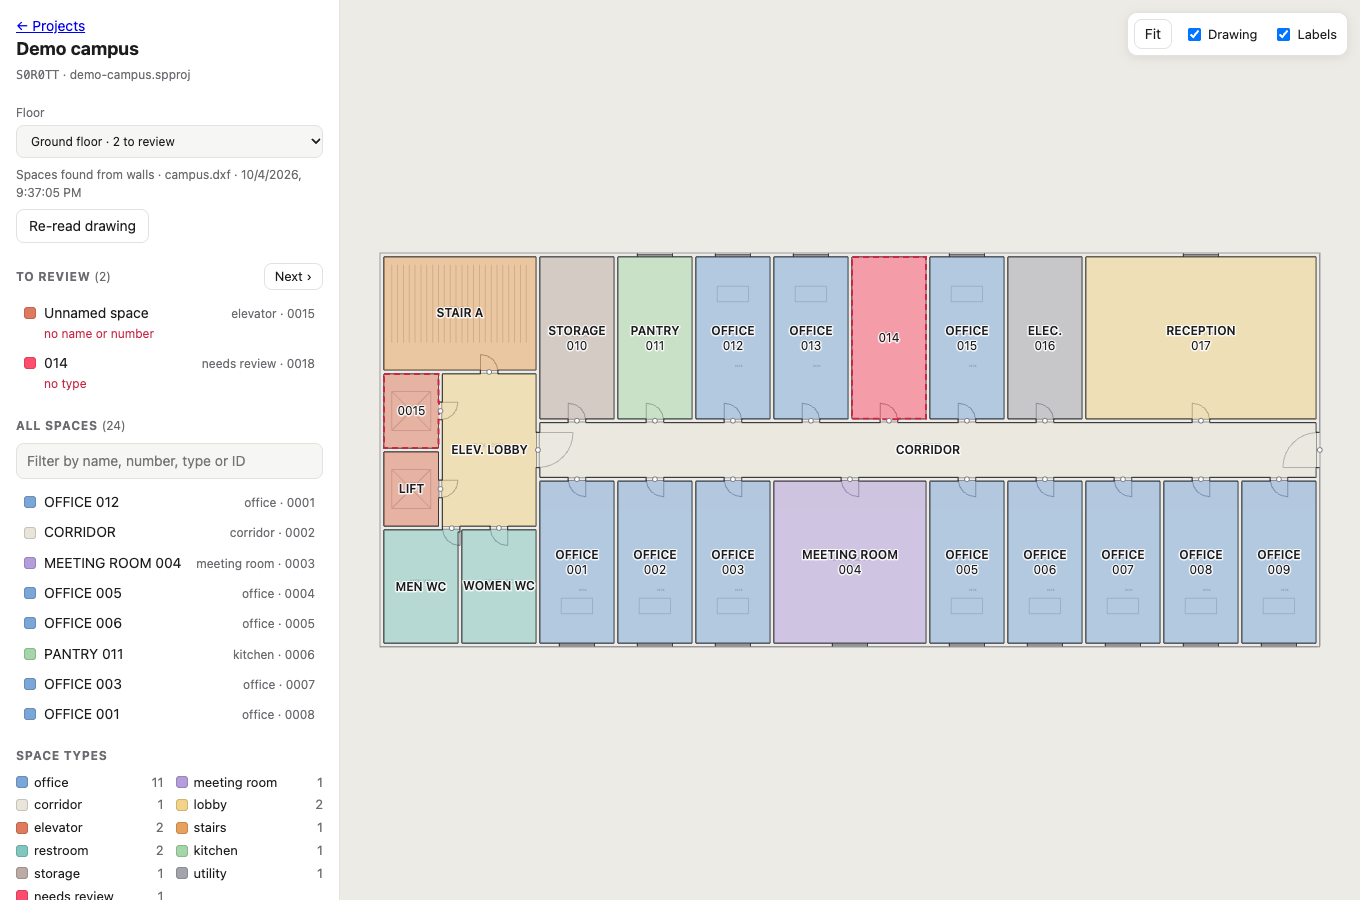
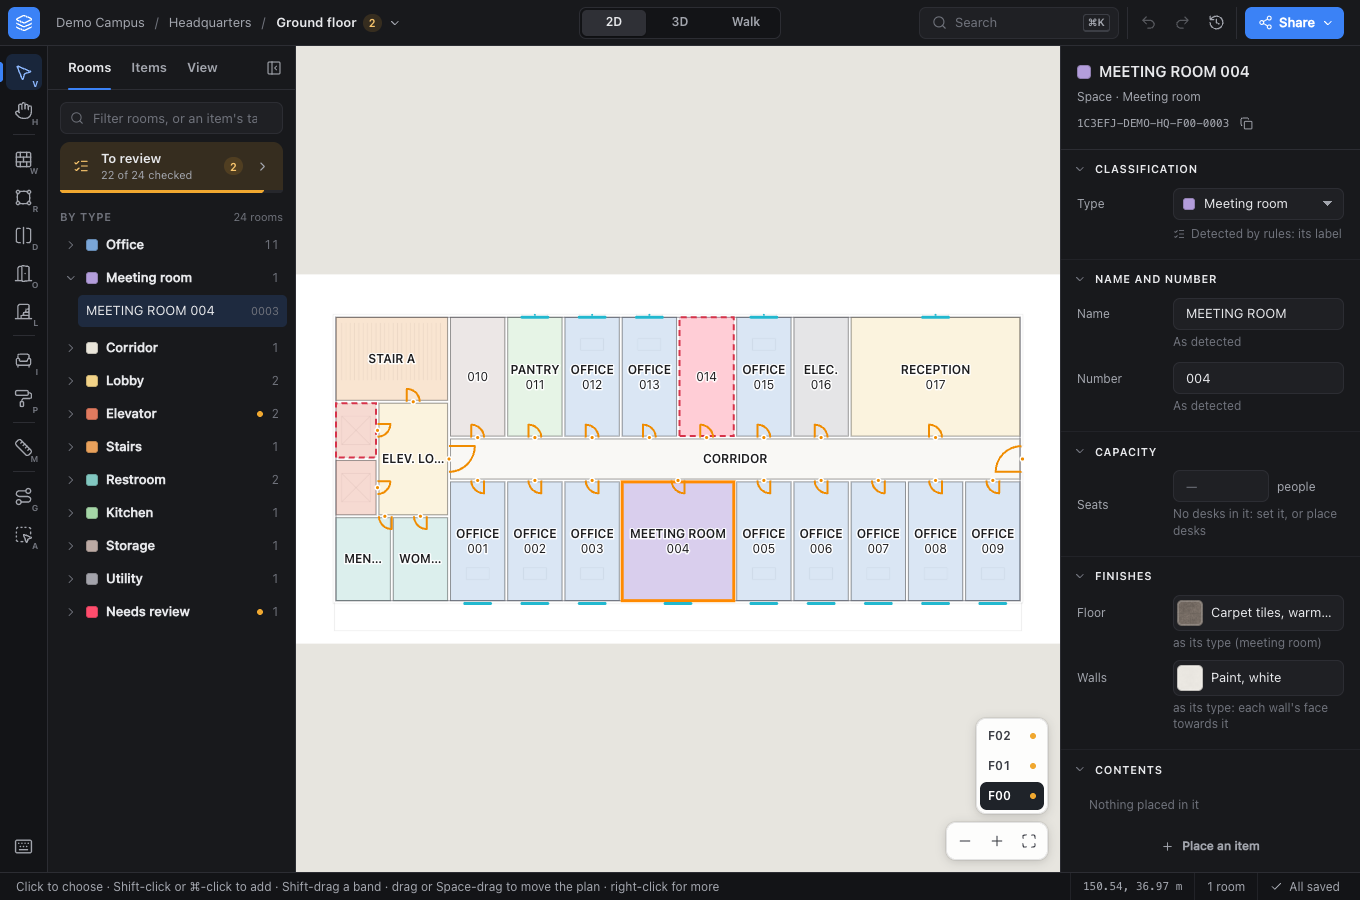
Studio's pages: number fields like the others, a plan's fields in even columns; the README's pictures as Studio is now
studio.css's own number field, link colour and helpers already in style.css and
ui.css went; a plan found on a drawing shows Floor and Floor name, Height and
Parapet side by side, evenly (Floor name was cut to a few letters). The README's
pictures of Review, a project and the plans on a drawing retaken on the demo project.

diff --git a/studio/src/storeypath/review_app/studio.css b/studio/src/storeypath/review_app/studio.css
@@ -21,20 +21,9 @@ body.studio .topbar {
 .page h1 { font-size: 24px; margin: 0; letter-spacing: -.01em; }
 .page h2 { margin: 0 0 12px; }
 .lead { color: var(--muted); margin: 4px 0 0; max-width: 70ch; }
-.back { color: var(--muted); text-decoration: none; font-size: 13px; }
-.back:hover { color: var(--text); }
-a { color: var(--accent); }
 
 .card { background: var(--surface-1); border: 1px solid var(--border); border-radius: var(--r-xl); padding: 18px; }
-.row { display: flex; gap: 10px; align-items: center; flex-wrap: wrap; }
-.grow { flex: 1; }
-.muted { color: var(--muted); }
-.small { font-size: 12px; }
-.unsure { color: var(--danger); font-weight: 600; }
-input[type="number"] {
-  font: inherit; color: var(--text); background: var(--bg);
-  border: 1px solid var(--line); border-radius: 8px; padding: 7px 10px; width: 100%;
-}
+.unsure { color: var(--danger-text); font-weight: 600; }
 
 .projects { display: grid; grid-template-columns: repeat(auto-fill, minmax(260px, 1fr)); gap: 14px; }
 .project-card { display: flex; flex-direction: column; gap: 6px; text-decoration: none; color: inherit; transition: border-color .15s; }
@@ -68,9 +57,9 @@ input[type="number"] {
 .plan .title { font-weight: 600; font-size: 13px; overflow-wrap: anywhere; }
 .badge { display: inline-block; font-size: 11px; padding: 1px 8px; border-radius: 999px; background: var(--hover); color: var(--muted); }
 .badge.plan-kind { background: color-mix(in srgb, var(--accent) 14%, transparent); color: var(--accent); }
-.plan .fields { display: grid; grid-template-columns: 1fr 70px; gap: 6px; }
+.plan .fields { display: grid; grid-template-columns: 1fr 1fr; gap: 6px; }
 .plan .fields label { display: flex; flex-direction: column; gap: 2px; font-size: 11px; color: var(--muted); }
-.plan .fields input { padding: 5px 8px; font-size: 13px; }
+.plan .fields input, .plan .fields select { font-size: var(--fs-md); }
 .check { display: flex; align-items: center; gap: 6px; font-size: 13px; }
 
 .buildings { display: flex; flex-direction: column; gap: 14px; }
